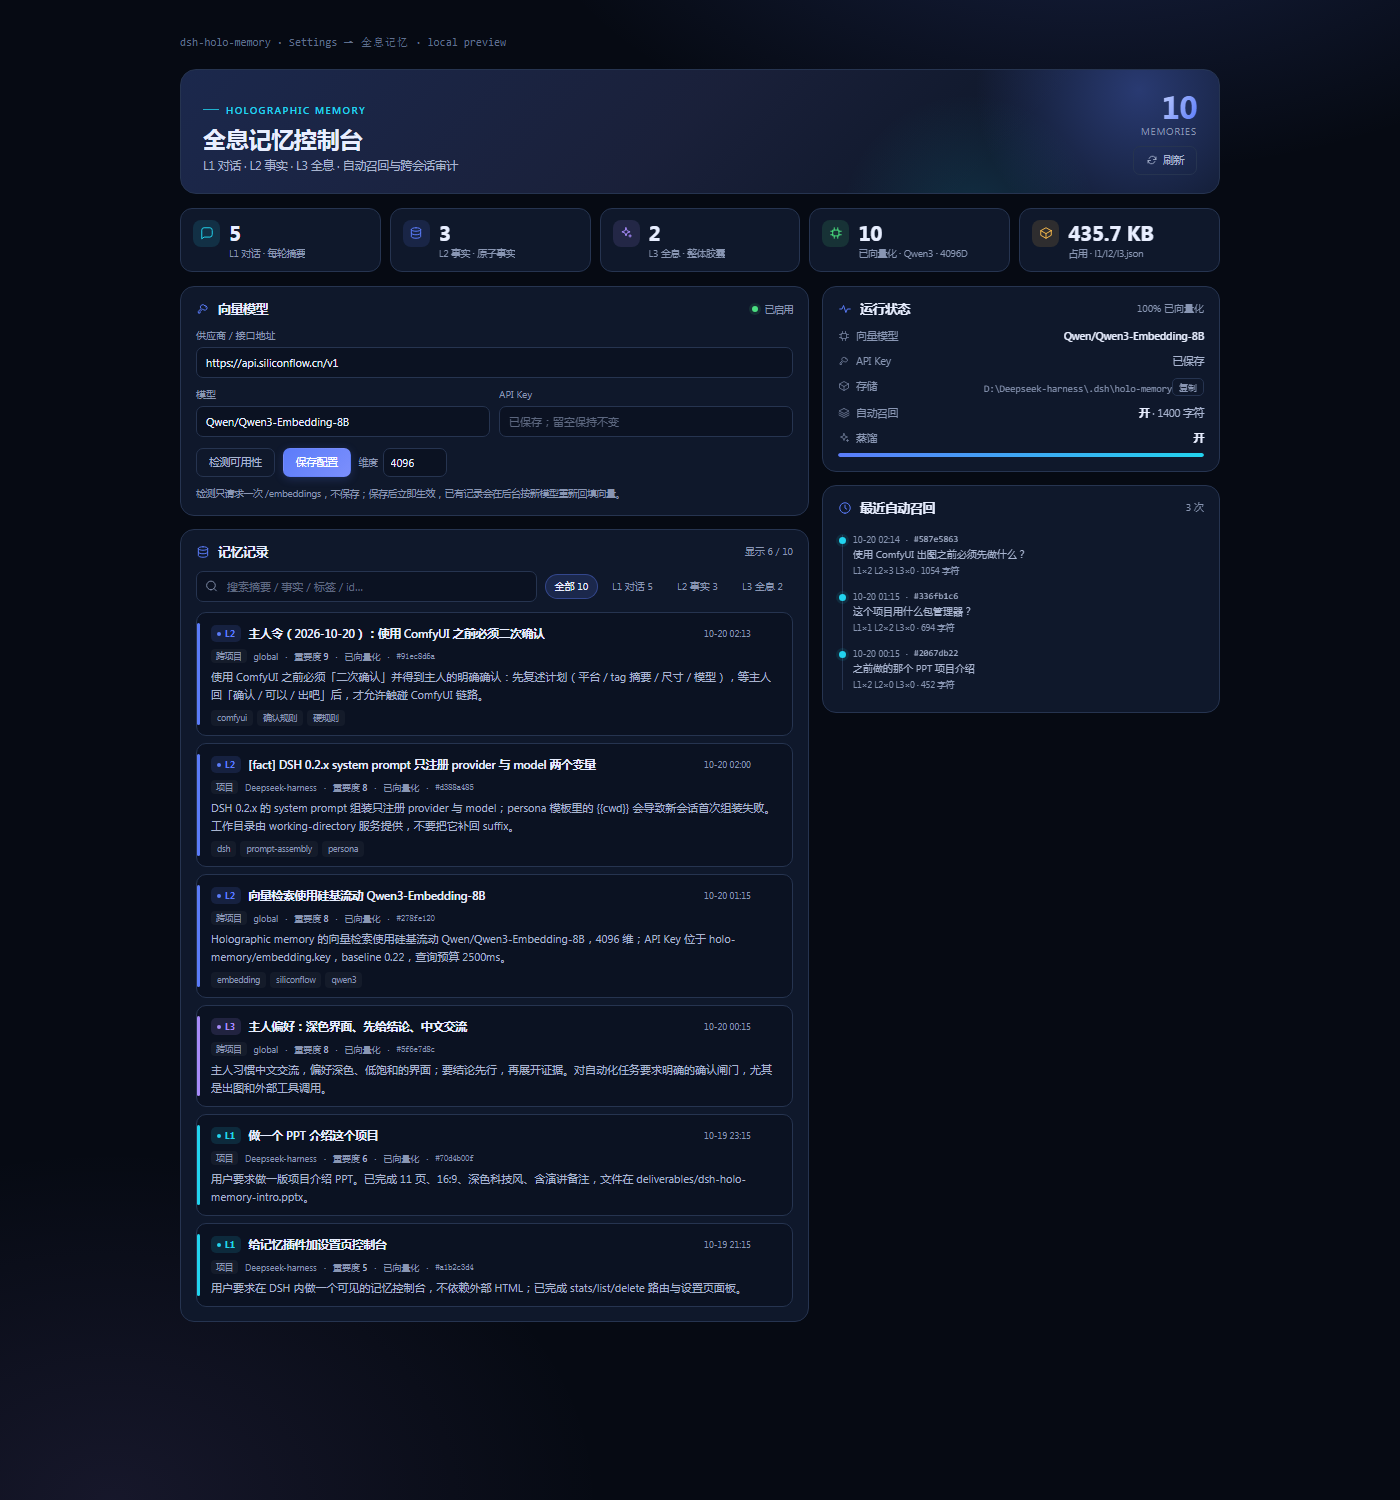
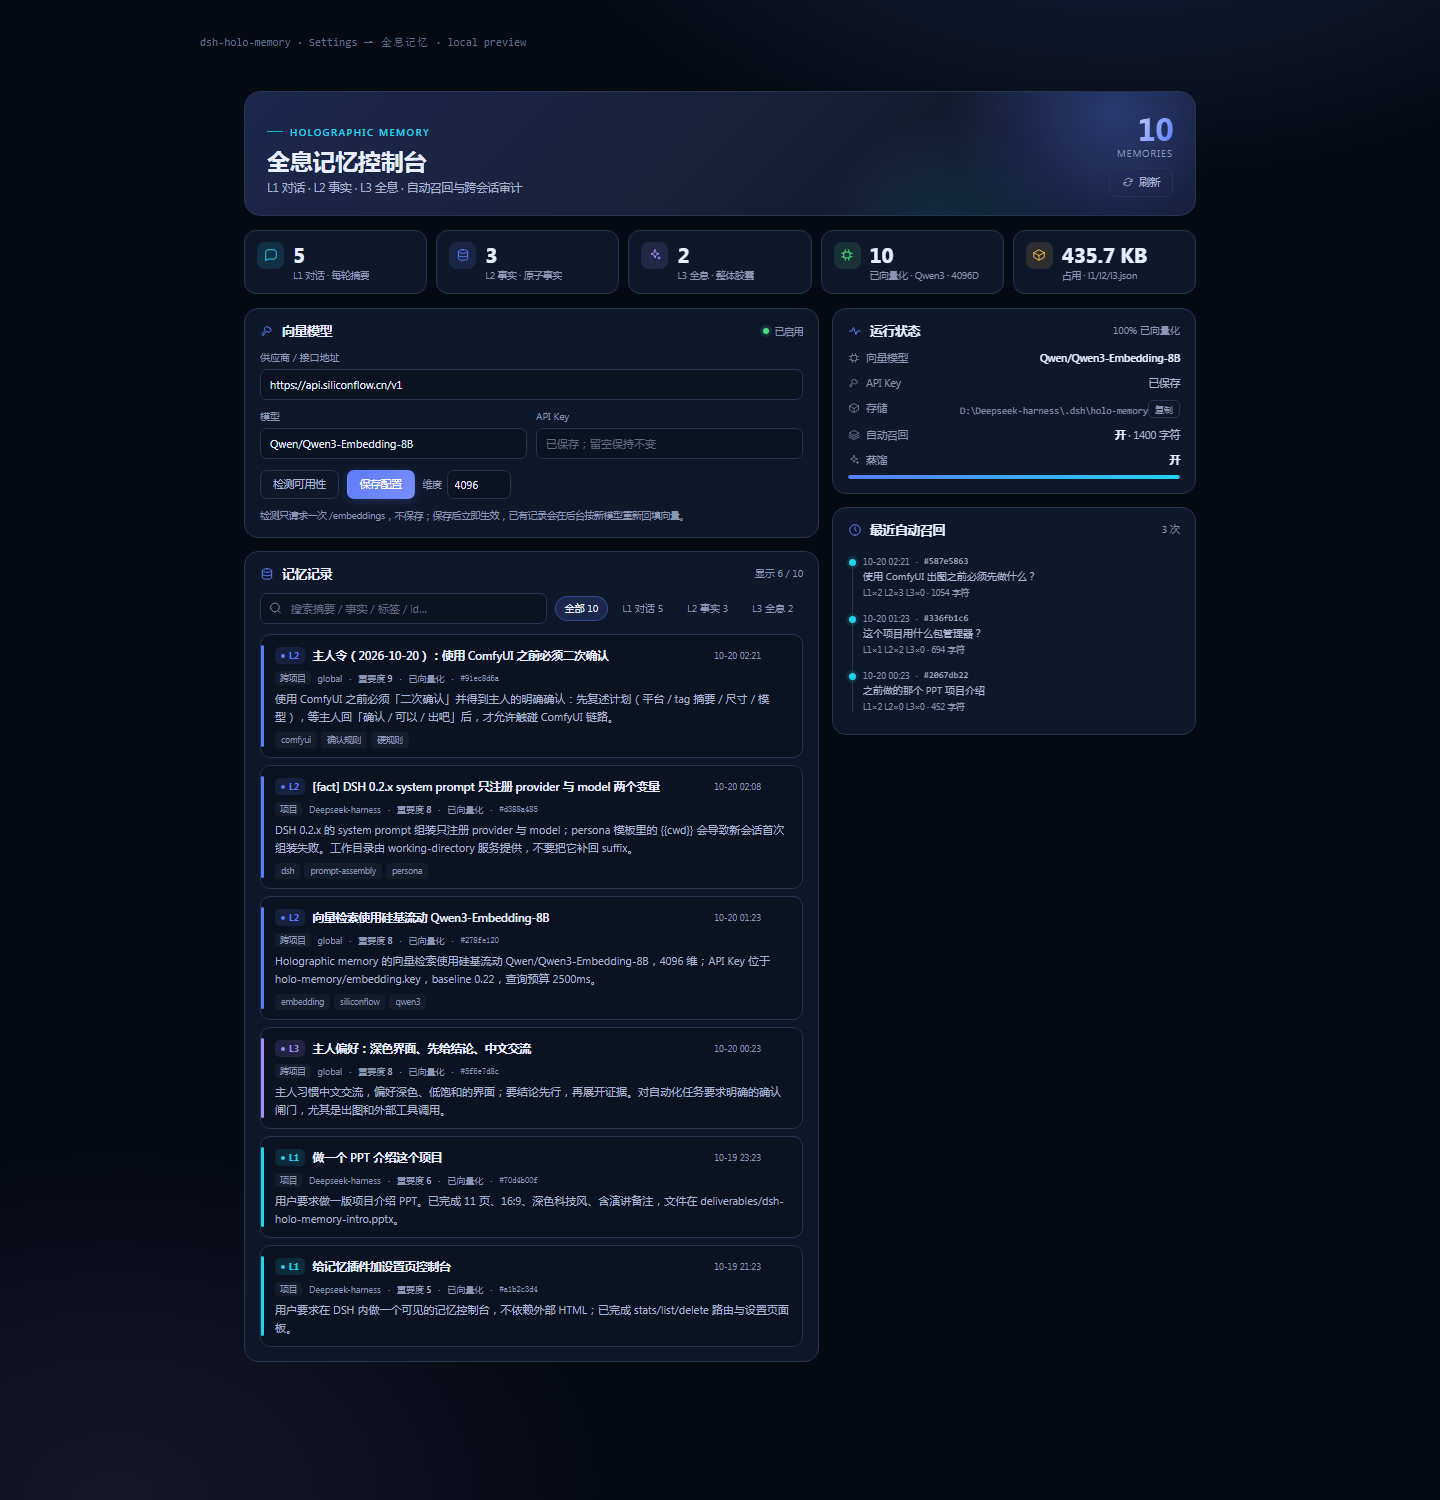
feat: move memory console to a top-level sidebar panel
- register main panel and sidebar.panellist entry above Settings

- page owns its scroll and padding for the main column

- update client slot test and docs

Changed region(s): [[0.1229, 0.0, 0.8907, 0.8893]]

diff --git a/client/client.js b/client/client.js
@@ -16,13 +16,15 @@
 
         var STYLE_ID = "dsh-holo-memory-style";
         var CSS = [
-          ".hm-pane{--hm-cyan:#22d3ee;--hm-blue:#5b7cfa;--hm-violet:#a78bfa;--hm-green:#4ade80;--hm-amber:#f5b84c;--hm-red:#f87171;--hm-surface:var(--dsw-alias-bg-layer-2,#0f182b);--hm-surface2:var(--dsw-alias-bg-layer-3,#142039);--hm-border:var(--dsw-alias-border-l3,#263450);--hm-text:var(--dsw-alias-label-primary,#e8eeff);--hm-sub:var(--dsw-alias-label-secondary,#a8b4cf);--hm-faint:var(--dsw-alias-label-tertiary,#8996b3);--hm-brand:var(--dsw-alias-brand-primary,#5b7cfa);display:flex;flex-direction:column;gap:14px;width:100%;max-width:1040px;padding:2px 0 30px;color:var(--hm-text);box-sizing:border-box;font-size:12px}",
+          ".hm-pane{--hm-cyan:#22d3ee;--hm-blue:#5b7cfa;--hm-violet:#a78bfa;--hm-green:#4ade80;--hm-amber:#f5b84c;--hm-red:#f87171;--hm-surface:var(--dsw-alias-bg-layer-2,#0f182b);--hm-surface2:var(--dsw-alias-bg-layer-3,#142039);--hm-border:var(--dsw-alias-border-l3,#263450);--hm-text:var(--dsw-alias-label-primary,#e8eeff);--hm-sub:var(--dsw-alias-label-secondary,#a8b4cf);--hm-faint:var(--dsw-alias-label-tertiary,#8996b3);--hm-brand:var(--dsw-alias-brand-primary,#5b7cfa);width:100%;height:100%;overflow:auto;padding:24px clamp(20px,4vw,44px) 42px;color:var(--hm-text);box-sizing:border-box;font-size:12px}",
+          "html[data-platform='darwin'] .hm-pane{padding-top:calc(24px + var(--dsh-frame-top-clearance,0px))}",
+          ".hm-shell{width:100%;max-width:1040px;margin:0 auto;display:flex;flex-direction:column;gap:14px}",
           ".hm-pane *{box-sizing:border-box}",
           ".hm-pane button{font-family:inherit}",
           "@keyframes hm-in{from{opacity:0;transform:translateY(5px)}to{opacity:1;transform:none}}",
-          ".hm-pane>*{animation:hm-in .36s cubic-bezier(.22,.8,.3,1) both}",
-          ".hm-pane>*:nth-child(2){animation-delay:.04s}.hm-pane>*:nth-child(3){animation-delay:.08s}.hm-pane>*:nth-child(4){animation-delay:.12s}",
-          "@media (prefers-reduced-motion:reduce){.hm-pane>*{animation:none}}",
+          ".hm-shell>*{animation:hm-in .36s cubic-bezier(.22,.8,.3,1) both}",
+          ".hm-shell>*:nth-child(2){animation-delay:.04s}.hm-shell>*:nth-child(3){animation-delay:.08s}.hm-shell>*:nth-child(4){animation-delay:.12s}",
+          "@media (prefers-reduced-motion:reduce){.hm-shell>*{animation:none}}",
           /* hero */
           ".hm-hero{position:relative;overflow:hidden;display:flex;align-items:flex-end;justify-content:space-between;gap:22px;padding:20px 22px 18px;border:.5px solid var(--hm-border);border-radius:16px;background:linear-gradient(135deg,rgba(91,124,250,.16),rgba(167,139,250,.07) 48%,transparent 78%),var(--hm-surface)}",
           ".hm-hero:before{content:'';position:absolute;right:-90px;top:-150px;width:340px;height:340px;border-radius:50%;background:radial-gradient(circle,rgba(91,124,250,.34),transparent 68%);pointer-events:none}",
@@ -641,56 +643,67 @@
             "div",
             { className: "hm-pane" },
             h(
-              "header",
-              { className: "hm-hero" },
+              "div",
+              { className: "hm-shell" },
               h(
-                "div",
-                { className: "hm-hero-copy" },
-                h("div", { className: "hm-kicker" }, "Holographic Memory"),
-                h("h2", null, "全息记忆控制台"),
-                h("p", null, "L1 对话 · L2 事实 · L3 全息 · 自动召回与跨会话审计"),
-              ),
-              h(
-                "div",
-                { className: "hm-hero-side" },
+                "header",
+                { className: "hm-hero", "data-window-drag": "true" },
                 h(
                   "div",
-                  { className: "hm-total-box" },
-                  h("div", { className: "hm-total-number" }, String(total)),
-                  h("div", { className: "hm-total-label" }, "memories"),
+                  { className: "hm-hero-copy" },
+                  h("div", { className: "hm-kicker" }, "Holographic Memory"),
+                  h("h2", null, "全息记忆控制台"),
+                  h("p", null, "L1 对话 · L2 事实 · L3 全息 · 自动召回与跨会话审计"),
                 ),
                 h(
-                  "button",
-                  { className: "hm-btn hm-hero-refresh", title: "刷新", onClick: load, disabled: loading },
-                  h("span", { className: loading ? "hm-spin" : "", style: { display: "inline-flex" } }, icon("refresh", 12)),
-                  loading ? "读取中" : "刷新",
+                  "div",
+                  { className: "hm-hero-side" },
+                  h(
+                    "div",
+                    { className: "hm-total-box" },
+                    h("div", { className: "hm-total-number" }, String(total)),
+                    h("div", { className: "hm-total-label" }, "memories"),
+                  ),
+                  h(
+                    "button",
+                    { className: "hm-btn hm-hero-refresh", title: "刷新", onClick: load, disabled: loading },
+                    h("span", { className: loading ? "hm-spin" : "", style: { display: "inline-flex" } }, icon("refresh", 12)),
+                    loading ? "读取中" : "刷新",
+                  ),
                 ),
               ),
-            ),
-            h(
-              "div",
-              { className: "hm-metrics" },
-              metric("L1 对话", counts.l1 || 0, "每轮摘要", "#22d3ee", "chat"),
-              metric("L2 事实", counts.l2 || 0, "原子事实", "#5b7cfa", "database"),
-              metric("L3 全息", counts.l3 || 0, "整体胶囊", "#a78bfa", "sparkles"),
-              metric("已向量化", embedded, "Qwen3 · 4096D", "#4ade80", "cpu"),
-              metric("占用", (counts.bytes / 1024).toFixed(1) + " KB", "l1/l2/l3.json", "#f5b84c", "box"),
-            ),
-            h(
-              "div",
-              { className: "hm-columns" },
-              h("div", { className: "hm-col-main" }, configPanel, memoryPanel),
-              h("div", { className: "hm-col-side" }, statusPanel, auditPanel),
+              h(
+                "div",
+                { className: "hm-metrics" },
+                metric("L1 对话", counts.l1 || 0, "每轮摘要", "#22d3ee", "chat"),
+                metric("L2 事实", counts.l2 || 0, "原子事实", "#5b7cfa", "database"),
+                metric("L3 全息", counts.l3 || 0, "整体胶囊", "#a78bfa", "sparkles"),
+                metric("已向量化", embedded, "Qwen3 · 4096D", "#4ade80", "cpu"),
+                metric("占用", (counts.bytes / 1024).toFixed(1) + " KB", "l1/l2/l3.json", "#f5b84c", "box"),
+              ),
+              h(
+                "div",
+                { className: "hm-columns" },
+                h("div", { className: "hm-col-main" }, configPanel, memoryPanel),
+                h("div", { className: "hm-col-side" }, statusPanel, auditPanel),
+              ),
             ),
           );
         }
 
+        function HoloMemoryIcon(props) {
+          return icon("layers", (props && props.size) || 18);
+        }
+
         function apply(ctx) {
           ensureStyleSheet();
-          ctx.slots.inject("settings.section", function () {
+          ctx.slots.inject("main", function () {
+            return ctx.slots.register({ name: "main", key: "holo-memory" }, HoloMemoryPane);
+          });
+          ctx.slots.inject("sidebar.panellist", function () {
             return ctx.slots.register(
-              { name: "settings.section", id: "holo-memory", order: 44, label: "全息记忆" },
-              HoloMemoryPane,
+              { name: "sidebar.panellist", id: "holo-memory", order: 10, label: "全息记忆" },
+              HoloMemoryIcon,
             );
           });
         }

diff --git a/README.md b/README.md
@@ -42,11 +42,11 @@ dsh plugin --profile web add link:/absolute/path/to/dsh-holo-memory
 
 ---
 
-## 设置页控制台（新）
+## 全息记忆页面（新）
 
 ![全息记忆控制台](docs/console.png)
 
-安装/重载后打开 **设置 → 全息记忆**，可以看到：
+安装/重载后，侧边栏会出现 **全息记忆** 一级入口（在设置上方，和「插件」并列）。点击后进入独立的记忆页面，不再是设置里的一段：
 
 - 顶部总记忆数 + L1/L2/L3/已向量化/占用空间；
 - **向量模型配置**：供应商 / 接口地址、模型、API Key、可选维度；
@@ -66,12 +66,12 @@ dsh plugin --profile web add link:/absolute/path/to/dsh-holo-memory
 
 1. 新开一个会话，问一个只有记忆里才有答案的问题（例如“使用 ComfyUI 出图前必须先做什么？”）；
 2. 看该会话第一条用户消息上方是否出现 `[长期记忆自动召回 | holo-memory]` 块；
-3. 打开 **设置 → 全息记忆 → 最近自动召回**，刷新，应该出现一条 **session id 与当前会话不同** 的记录，包含 query、L1/L2/L3 数量、命中的 id；
+3. 打开侧边栏 **全息记忆 → 最近自动召回**，刷新，应该出现一条 **session id 与当前会话不同** 的记录，包含 query、L1/L2/L3 数量、命中的 id；
 4. 也可以直接让 agent 调用 `memory_injections`，返回同样的审计列表。
 
 审计写入 `$DSH_HOME/holo-memory/injections.jsonl`（只保留最近 1000 条 / 1 MB）。它记录的是“注入事实”，不是“记忆库存”；所以它能证明别的会话确实收到了记忆。
 
-> client 半是这次新增的；如果设置里暂时看不到「全息记忆」，**刷新一次页面**；仍没有就重启 dsh。
+> client 半是这次新增的；如果侧边栏暂时看不到「全息记忆」，**刷新一次页面**；仍没有就重启 dsh。
 
 ---
 
